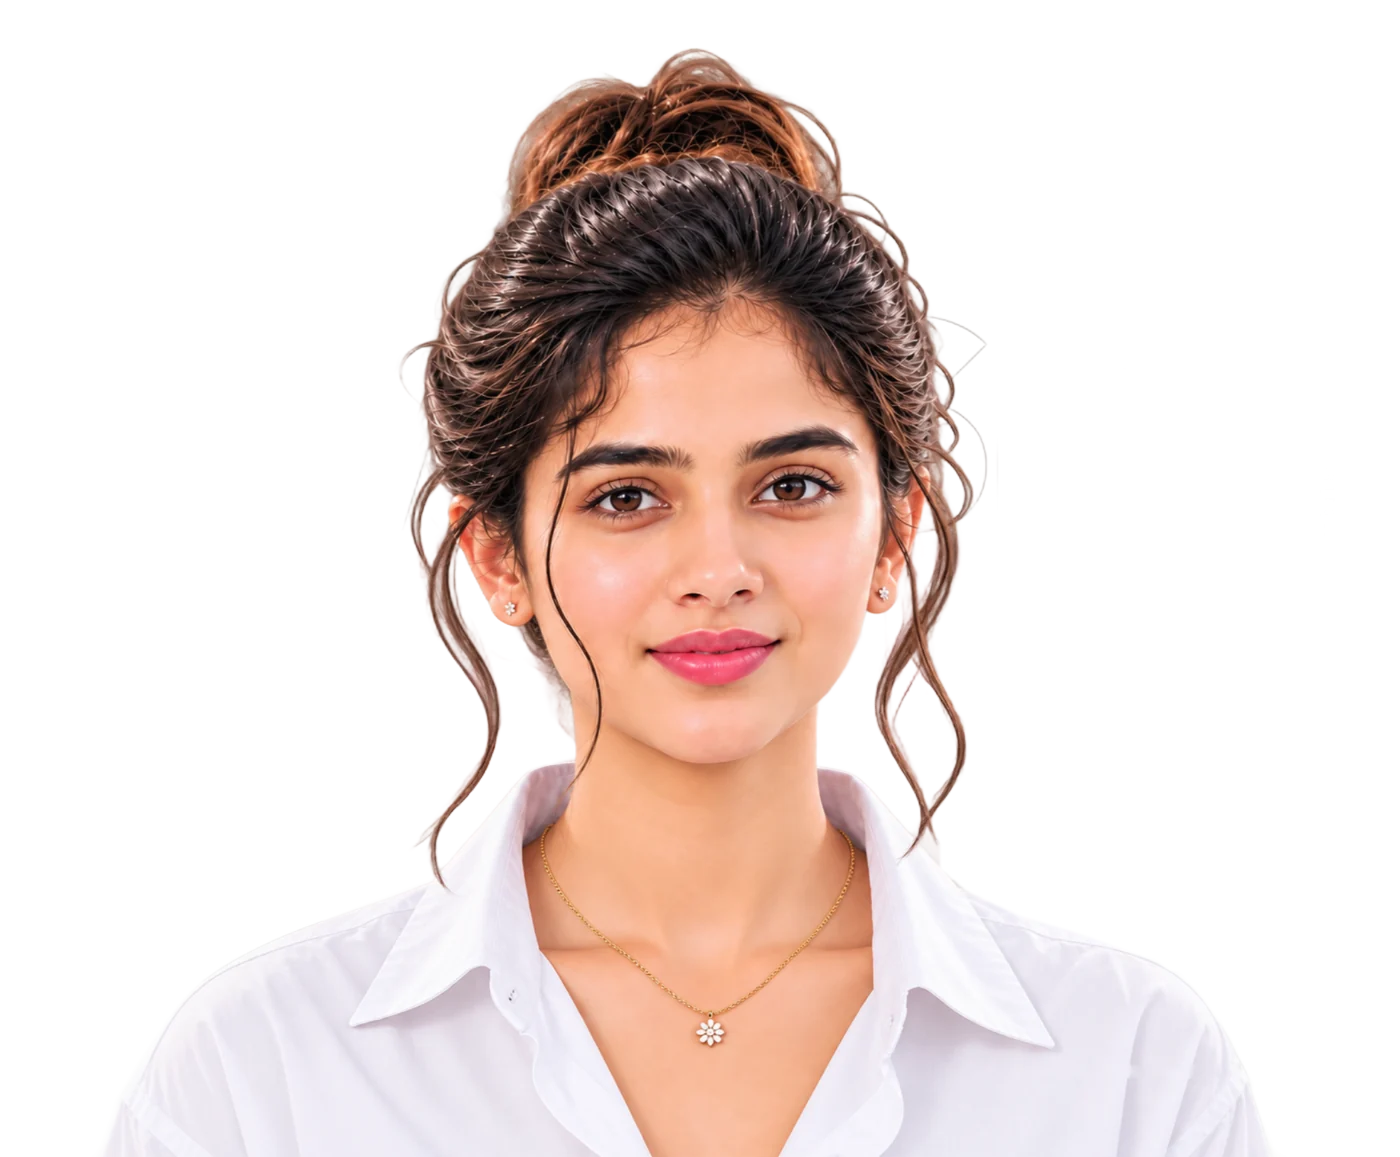
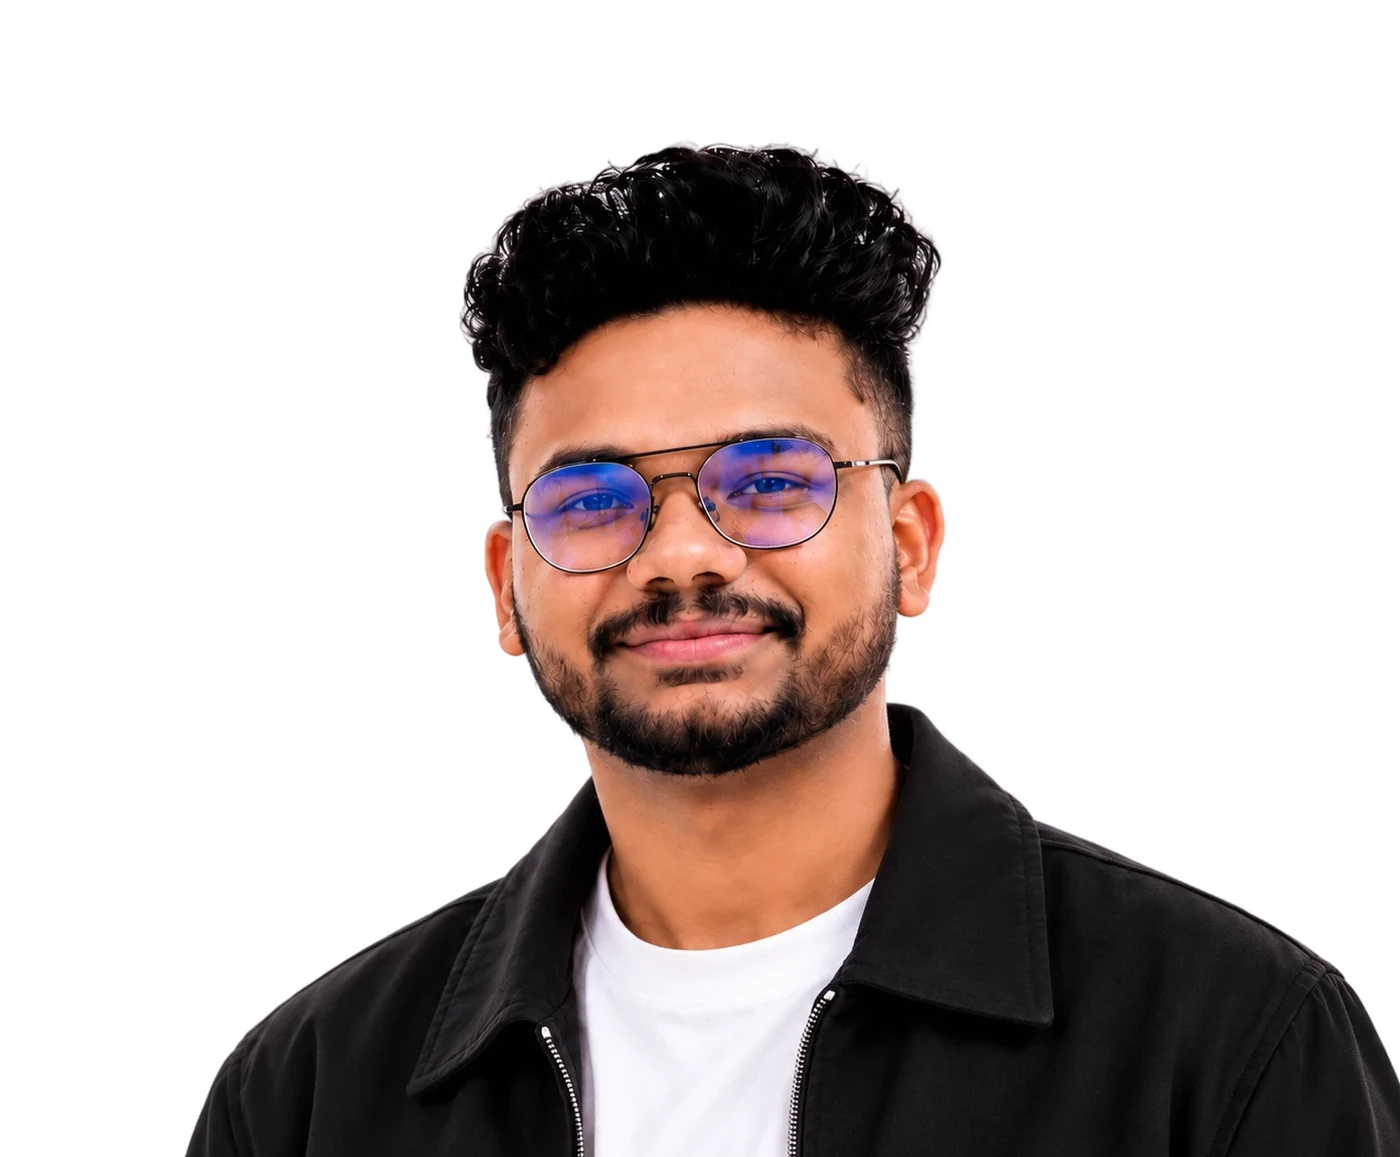
Use K G Harish Patel's photo for the hero reveal
- hero-default.webp: his portrait, background removed and placed with the
  face where the hero layout expects it (generated by tools/make_hero.py).
- hero-reveal.webp: machine-vision version of the same portrait (face mesh,
  glowing irises, detection box with ID tag, edge glow, dark tech grid),
  pixel-aligned with the default image.
- CTA crop re-centred on the face; scroll hint gets a frosted backing so it
  stays readable over the dark jacket; status badge left-aligned on mobile.

Claude-Session: https://claude.ai/code/session_014fPRxEYqjWybHm61Csywf1

diff --git a/assets/css/style.css b/assets/css/style.css
@@ -454,16 +454,22 @@ html.has-cursor .hero, html.has-cursor .hero * { cursor: none; }
 
 .hero__scroll {
   position: absolute; z-index: 3;
-  right: var(--pad-r);
-  bottom: 5.4%;
+  right: calc(var(--pad-r) - 1.4em);
+  bottom: calc(5.4% - .9em);
   display: flex; align-items: center; gap: 1.8em;
+  padding: .9em 1.4em;
+  border-radius: 999px;
   white-space: nowrap;
+  /* frosted backing keeps the label readable over dark clothing in the portrait */
+  background: rgba(250, 250, 248, .78);
+  -webkit-backdrop-filter: blur(10px);
+  backdrop-filter: blur(10px);
 }
 .hero__hint { color: var(--muted); letter-spacing: .3em; }
 .hero__scroll-label { color: var(--ink); font-weight: 600; letter-spacing: .34em; }
 .hero__scroll-line {
   position: relative;
-  width: 1.5px; height: clamp(34px, 4.4vh, 56px);
+  width: 1.5px; height: clamp(22px, 3vh, 36px);
   background: rgba(var(--accent-rgb), .25);
   overflow: hidden;
 }
@@ -576,7 +582,7 @@ html.has-cursor .hero, html.has-cursor .hero * { cursor: none; }
   z-index: 0;
   background: url("../img/hero-reveal.webp") no-repeat;
   background-size: 540% auto;
-  background-position: 51% 61%;
+  background-position: 50% 48%;
   border-radius: 42% 58% 63% 37% / 41% 44% 56% 59%;
   transform: scale(0) rotate(-30deg);
   transition: transform .6s var(--ease-out);
@@ -1088,7 +1094,7 @@ html.has-cursor .project-preview { display: block; }
     padding-top: calc(var(--header-h) + 8px);
   }
   .hero__index { display: none; }
-  .hero__status { position: relative; top: auto; right: auto; order: 0; padding: 0 var(--pad-l); font-size: 10px; letter-spacing: .24em; }
+  .hero__status { position: relative; top: auto; right: auto; order: 0; max-width: none; padding: 0 var(--pad-r) 0 var(--pad-l); text-align: left; line-height: 1.6; font-size: 10px; letter-spacing: .2em; }
   .hero__vertical, .hero__scroll { display: none; }
 
   .hero__content {
